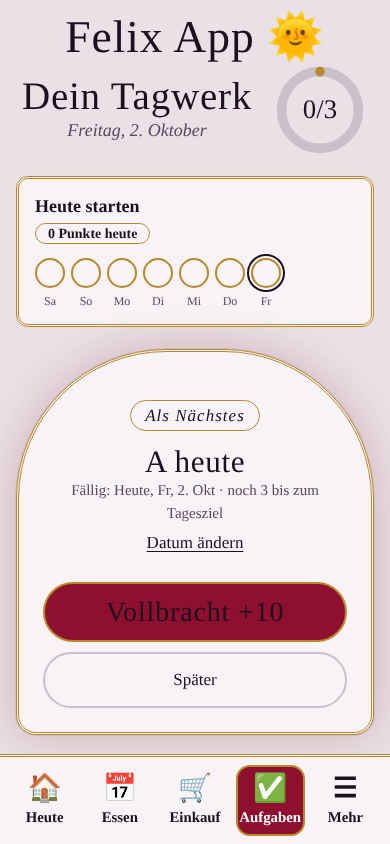
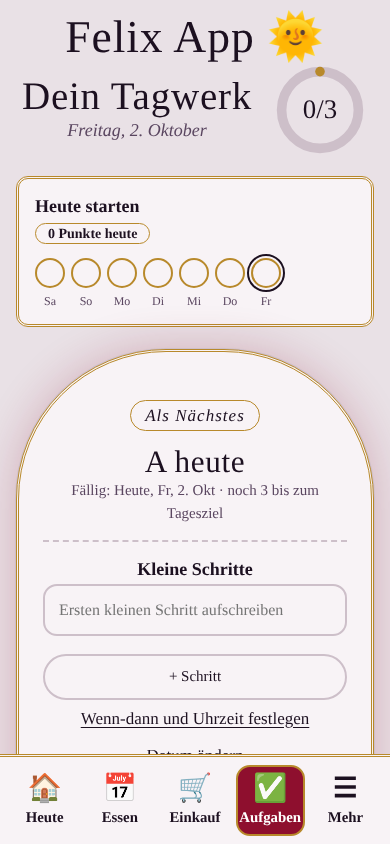
Aufgaben: kleine Schritte, Wenn-dann, Uhrzeit (2.3.0)
Claude-Session: https://claude.ai/code/session_01JKnLbAw27fNPQk2xqHruVg

Changed region(s): [[0.0308, 0.6161, 0.9846, 0.8934], [0.8615, 0.8009, 0.8923, 0.8318], [0.1231, 0.8009, 0.1538, 0.8318]]

diff --git a/index.html b/index.html
@@ -5,7 +5,7 @@
 <script>try{var _v=localStorage.getItem("aufgabenStil");if(["reward","punk","rock","gothic"].indexOf(_v)>=0)document.documentElement.dataset.v=_v}catch(e){}</script>
 <meta name="viewport" content="width=device-width, initial-scale=1">
 <title>Felix App</title>
-<meta name="version" content="2.2.1">
+<meta name="version" content="2.3.0">
 <meta name="application-name" content="Felix App">
 <meta name="apple-mobile-web-app-title" content="Felix App">
 <link rel="preconnect" href="https://fonts.googleapis.com">
@@ -576,6 +576,23 @@ input[type=checkbox]:checked::after{font-size:18px}
 :root[data-v="rock"] .day-h{font-size:1.4rem}
 :root[data-v="gothic"] .cal-d{border:1px solid var(--spot);border-radius:14px}
 :root[data-v="gothic"] .day-h{font-size:1.4rem;text-align:center;font-weight:400}
+
+/* Mini-Schritte, Wenn-dann, Uhrzeit */
+.tk-wd,.tk-time{margin:10px 0 0;font-weight:700}
+.tk-steps{margin-top:16px;padding-top:14px;border-top:2px dashed var(--line)}
+.tk-st-h{margin:0 0 6px;font-weight:800;font-size:.95rem}
+.tk-st{list-style:none;padding:0;margin:6px 0 10px}
+.tk-st li{display:flex;align-items:center;gap:12px;padding:6px 0}
+.tk-st li span{flex:1;min-width:0;overflow-wrap:anywhere}
+.tk-st li span.is-done{text-decoration:line-through;color:var(--muted)}
+.tk-stform{display:flex;gap:8px;flex-wrap:wrap}
+.tk-stform .field{flex:1 1 180px;font-size:16px}
+.tk-edit{margin-top:14px;padding-top:12px;border-top:2px dashed var(--line)}
+.tk-edit .field{font-size:16px;min-height:46px}
+.tk-edit-b{display:flex;align-items:center;gap:12px;margin-top:12px;flex-wrap:wrap}
+.tk-opt{margin-top:10px}
+.tk-opt summary{cursor:pointer;min-height:44px;display:flex;align-items:center;font-weight:700;color:var(--muted)}
+.tk-opt .field{font-size:16px;min-height:46px}
 @media print{nav,.days,.bar button,.meal a{display:none}section{display:block!important}body{background:#fff;color:#000}.meal,details.recipe{transform:none!important;break-inside:avoid}}
 </style>
 </head>
@@ -696,7 +713,7 @@ input[type=checkbox]:checked::after{font-size:18px}
     </div>
   </section>
 </main>
-<footer class="ver">Felix App, Version 2.2.1 vom 2.10.2026</footer>
+<footer class="ver">Felix App, Version 2.3.0 vom 2.10.2026</footer>
 <div id="tk-toast" role="status" aria-live="polite" hidden></div>
 <script>
 
@@ -1959,12 +1976,14 @@ function dueClass(t){
 }
 
 /* ---------- Zustand ---------- */
-const state={variant:'reward',tasks:[],loading:false,showDone:false,editDate:null,skipOrder:[],pinned:null,more:false,praise:null,praiseN:0,burst:0,calDay:null};
+const state={variant:'reward',tasks:[],loading:false,showDone:false,editDate:null,skipOrder:[],pinned:null,more:false,praise:null,praiseN:0,burst:0,calDay:null,editPlan:null};
 const find=id=>state.tasks.find(t=>t.id===id);
 function norm(id,d){
   if(!d||typeof d!=='object')return null;
   const due=typeof d.due==='string'&&/^\d{4}-\d{2}-\d{2}$/.test(d.due)?d.due:null;
-  return {id:String(id),title:String(d.title||'').slice(0,200),due:due,done:!!d.done,doneAt:+d.doneAt||0,createdAt:+d.createdAt||0,triaged:!!d.triaged};
+  const steps=Array.isArray(d.steps)?d.steps.slice(0,12).map((s,i)=>({id:String((s&&s.id)||('s'+i)),t:String((s&&s.t)||'').slice(0,100),done:!!(s&&s.done)})).filter(s=>s.t):[];
+  const time=typeof d.time==='string'&&/^\d{2}:\d{2}$/.test(d.time)&&due?d.time:'';
+  return {id:String(id),title:String(d.title||'').slice(0,200),due:due,time:time,wenn:String(d.wenn||'').slice(0,100),steps:steps,done:!!d.done,doneAt:+d.doneAt||0,createdAt:+d.createdAt||0,triaged:!!d.triaged};
 }
 function saveLocal(){lsSet(LS_T,JSON.stringify(state.tasks))}
 function add(task){
@@ -1978,7 +1997,7 @@ function restore(t){state.tasks.push(t);saveLocal();renderContent()}
 function groups(){
   const today=todayISO();
   const open=state.tasks.filter(t=>!t.done);
-  const byDue=(a,b)=>(a.due||'9999').localeCompare(b.due||'9999')||(a.createdAt||0)-(b.createdAt||0);
+  const byDue=(a,b)=>(a.due||'9999').localeCompare(b.due||'9999')||(a.time||'99:99').localeCompare(b.time||'99:99')||(a.createdAt||0)-(b.createdAt||0);
   return {
     open:open,
     overdue:open.filter(t=>t.due&&t.due<today).sort(byDue),
@@ -2003,16 +2022,25 @@ function focusQueue(){
 const CHECK='<svg viewBox="0 0 12 12" fill="none" stroke-width="2" stroke-linecap="round" stroke-linejoin="round"><path d="M2.5 6.2l2.4 2.4 4.6-5"/></svg>';
 const XICON='<svg viewBox="0 0 16 16" width="14" height="14" fill="none" stroke="currentColor" stroke-width="1.6" stroke-linecap="round"><path d="M4 4l8 8M12 4l-8 8"/></svg>';
 const chk=t=>'<button type="button" class="chk" role="checkbox" aria-checked="'+(t.done?'true':'false')+'" aria-label="Erledigt: '+esc(t.title)+'" data-act="toggle" data-id="'+esc(t.id)+'">'+CHECK+'</button>';
+function leftText(t){
+  if(!t.time||!t.due)return '';
+  const p=ymd(t.due),hm=t.time.split(':').map(Number),ts=new Date(p[0],p[1],p[2],hm[0],hm[1]).getTime(),diff=ts-Date.now();
+  const m=Math.round(Math.abs(diff)/60000),hh=Math.floor(m/60),r=m%60,d=Math.floor(hh/24);
+  const s=d>=1?d+(d===1?' Tag ':' Tage ')+(hh%24)+' Std':hh>=1?hh+' Std '+r+' Min':r+' Min';
+  return diff>0?'noch '+s:'seit '+s+' überfällig';
+}
 function dueHTML(t){
-  if(state.editDate===t.id)return '<span class="date-edit"><input type="date" class="d-in" data-id="'+esc(t.id)+'" value="'+esc(t.due||'')+'" aria-label="Neues Datum">'
+  if(state.editDate===t.id)return '<span class="date-edit"><input type="date" class="d-in" data-id="'+esc(t.id)+'" value="'+esc(t.due||'')+'" aria-label="Neues Datum">'+(t.due?'<input type="time" class="d-in t-in" data-id="'+esc(t.id)+'" value="'+esc(t.time||'')+'" aria-label="Uhrzeit">':'')
     +'<button type="button" class="link" data-act="nodate" data-id="'+esc(t.id)+'">Ohne Datum</button>'
     +'<button type="button" class="link" data-act="canceldate">Abbrechen</button></span>';
-  if(t.due)return '<button type="button" class="due '+dueClass(t)+'" data-act="date" data-id="'+esc(t.id)+'" aria-label="Datum ändern, aktuell '+esc(label(t.due))+'">'+esc(label(t.due))+'</button>';
+  if(t.due)return '<button type="button" class="due '+dueClass(t)+'" data-act="date" data-id="'+esc(t.id)+'" aria-label="Datum ändern, aktuell '+esc(label(t.due))+'">'+esc(label(t.due)+(t.time?', '+t.time+' Uhr':''))+'</button>';
   if(!t.done)return '<button type="button" class="due none" data-act="date" data-id="'+esc(t.id)+'" aria-label="Datum setzen">Datum</button>';
   return '';
 }
 function item(t,mv){
-  const meta=dueHTML(t)
+  const ns=t.steps.length,nd=t.steps.filter(s=>s.done).length;
+  const meta=dueHTML(t)+(ns?'<span class="tag">'+nd+'/'+ns+' Schritte</span>':'')+(t.wenn&&!t.done?'<span class="tag">Wenn '+esc(t.wenn)+'</span>':'')
+    +(!t.done?'<button type="button" class="link" data-act="pin" data-id="'+esc(t.id)+'">Details</button>':'')
     +(mv&&!t.done?'<button type="button" class="mv" data-act="moveto" data-id="'+esc(t.id)+'" data-days="'+(mv==='tomorrow'?1:0)+'">'+(mv==='tomorrow'?'Auf morgen':'Auf heute')+'</button>':'');
   return '<li class="task big'+(t.done?' is-done':'')+'">'+chk(t)
     +'<div class="t-main"><span class="t-title">'+esc(t.title)+'</span>'+(meta?'<span class="t-meta">'+meta+'</span>':'')+'</div>'
@@ -2062,6 +2090,8 @@ function chromeReward(){
    +'<button type="submit" class="btn-solid">Hinzufügen</button></div>'
    +'<div class="chips" role="group" aria-label="Wann?">'+chip(0,'Heute')+chip(1,'Morgen')+chip(7,'In 1 Woche')+chip('none','Irgendwann')+'</div>'
    +'<label class="fk-date" for="f-due">Anderes Datum <input id="f-due" type="date" class="field date"></label>'
+   +'<details class="tk-opt"><summary>Uhrzeit und Wenn-dann (optional)</summary><label class="fk-date" for="f-time">Uhrzeit <input id="f-time" type="time" class="field date"></label>'
+   +'<label class="fk-date" for="f-wenn">Wenn … <input id="f-wenn" type="text" class="field" maxlength="100" placeholder="z. B. nach dem Frühstück"></label></details>'
    +'<p class="cal-hint" id="f-hint" aria-live="polite"></p></form></div>';
 }
 function goalHTML(v,dt,GOAL){
@@ -2070,6 +2100,20 @@ function goalHTML(v,dt,GOAL){
   if(v==='rock'){let b='';for(let i=0;i<GOAL;i++)b+='<span class="rk-bar'+(i<n?' on':'')+'" style="height:'+(45+i*27)+'%"></span>';return '<div class="rw-goal" role="img" aria-label="'+aria+'"><div class="rk-meter">'+b+'</div><span class="rw-goal-t">'+n+'/'+GOAL+' heute</span></div>'}
   const C=2*Math.PI*40,pct=n/GOAL;
   return '<svg class="rw-ring" viewBox="0 0 100 100" role="img" aria-label="'+aria+'"><circle class="track" cx="50" cy="50" r="40"/><circle class="prog" cx="50" cy="50" r="40" transform="rotate(-90 50 50)" stroke-dasharray="'+(pct*C).toFixed(1)+' '+C.toFixed(1)+'"/><text x="50" y="58">'+n+'/'+GOAL+'</text></svg>';
+}
+function heroExtra(h){
+  const id=esc(h.id),ns=h.steps.length,nd=h.steps.filter(s=>s.done).length;
+  let o='';
+  if(h.wenn)o+='<p class="tk-wd"><b>Wenn</b> '+esc(h.wenn)+', <b>dann</b> '+esc(h.title)+'</p>';
+  if(h.time&&h.due)o+='<p class="tk-time">Um '+esc(h.time)+' Uhr · <span data-left="'+id+'">'+esc(leftText(h))+'</span></p>';
+  o+='<div class="tk-steps"><p class="tk-st-h">Kleine Schritte'+(ns?' · '+nd+' von '+ns+' geschafft':'')+'</p>';
+  if(ns)o+='<ul class="tk-st">'+h.steps.map(s=>'<li><button type="button" class="chk" role="checkbox" aria-checked="'+(s.done?'true':'false')+'" aria-label="Schritt erledigt: '+esc(s.t)+'" data-act="stepdone" data-id="'+id+'" data-sid="'+esc(s.id)+'">'+CHECK+'</button><span class="'+(s.done?'is-done':'')+'">'+esc(s.t)+'</span><button type="button" class="del" data-act="stepdel" data-id="'+id+'" data-sid="'+esc(s.id)+'" aria-label="Schritt löschen: '+esc(s.t)+'">'+XICON+'</button></li>').join('')+'</ul>';
+  o+='<form class="tk-stform" id="stform" data-id="'+id+'" autocomplete="off"><input class="field" id="f-step" type="text" maxlength="100" placeholder="'+(ns?'Noch ein kleiner Schritt':'Ersten kleinen Schritt aufschreiben')+'" aria-label="Neuer Schritt"><button type="submit" class="btn-ghost sm">+ Schritt</button></form></div>';
+  if(state.editPlan===h.id)o+='<div class="tk-edit"><label class="fk-date" for="e-wenn">Wenn … <input id="e-wenn" type="text" class="field" maxlength="100" value="'+esc(h.wenn)+'" placeholder="z. B. nach dem Frühstück"></label>'
+    +(h.due?'<label class="fk-date" for="e-time">Uhrzeit <input id="e-time" type="time" class="field date" value="'+esc(h.time)+'"></label>':'<p class="fk-meta">Für eine Uhrzeit braucht die Aufgabe einen Tag.</p>')
+    +'<div class="tk-edit-b"><button type="button" class="btn-solid" data-act="saveplan" data-id="'+id+'">Speichern</button><button type="button" class="link" data-act="cancelplan">Abbrechen</button></div></div>';
+  else o+='<button type="button" class="link" data-act="editplan" data-id="'+id+'">'+(h.wenn||h.time?'Wenn-dann und Uhrzeit ändern':'Wenn-dann und Uhrzeit festlegen')+'</button>';
+  return o;
 }
 function calStrip(){
   const t=todayISO();
@@ -2106,7 +2150,7 @@ function fillReward(){
   if(state.burst&&Date.now()-state.burst<1500)hero+=confetti();
   if(state.loading)hero+='<div class="rw-card"><p class="fk-meta">Aufgaben werden geladen …</p></div>';
   else if(h){
-    hero+='<div class="rw-card"><span class="fk-kicker">'+S.kicker+'</span><h2 class="fk-task">'+esc(h.title)+'</h2><p class="fk-meta">'+esc(softLabel(h))+(dt>=GOAL?' · Tagesziel schon erreicht':' · noch '+(GOAL-dt)+' bis zum Tagesziel')+'</p>'+(state.editDate===h.id?dueHTML(h):'<button type="button" class="link" data-act="date" data-id="'+esc(h.id)+'">Datum ändern</button>')
+    hero+='<div class="rw-card"><span class="fk-kicker">'+S.kicker+'</span><h2 class="fk-task">'+esc(h.title)+'</h2><p class="fk-meta">'+esc(softLabel(h))+(dt>=GOAL?' · Tagesziel schon erreicht':' · noch '+(GOAL-dt)+' bis zum Tagesziel')+'</p>'+heroExtra(h)+(state.editDate===h.id?dueHTML(h):'<button type="button" class="link" data-act="date" data-id="'+esc(h.id)+'">Datum ändern</button>')
       +'<button type="button" class="rw-go" data-act="toggle" data-id="'+esc(h.id)+'">'+S.go+'</button>'
       +(q.length>1?'<button type="button" class="btn-ghost" data-act="skip" data-id="'+esc(h.id)+'">Später</button>':'')+'</div>';
   }else{
@@ -2167,30 +2211,50 @@ shell.addEventListener('click',e=>{
     case 'showdone':state.showDone=!state.showDone;renderContent();break;
     case 'skip':state.skipOrder=state.skipOrder.filter(x=>x!==id).concat(id);renderContent();break;
     case 'more':state.more=!state.more;renderContent();break;
+    case 'pin':if(t){state.pinned=id;state.editPlan=null;renderContent();const hw=$('#rw-hero');if(hw&&hw.scrollIntoView)hw.scrollIntoView({block:'start'})}break;
+    case 'editplan':state.editPlan=id;renderContent();{const w=$('#e-wenn');if(w)w.focus()}break;
+    case 'cancelplan':state.editPlan=null;renderContent();break;
+    case 'saveplan':if(t){const w=$('#e-wenn'),tm=$('#e-time');state.editPlan=null;patch(id,{wenn:(w?w.value:'').trim().slice(0,100),time:t.due&&tm?tm.value:''})}break;
+    case 'stepdone':if(t){const sid=b.dataset.sid,s=t.steps.find(x=>x.id===sid);if(!s)break;const now=!s.done;
+      patch(id,{steps:t.steps.map(x=>x.id===sid?Object.assign({},x,{done:now}):x)});
+      if(window.PTS){if(now)PTS.award('step:'+id+':'+sid,2,'Schritt geschafft');else PTS.revoke('step:'+id+':'+sid)}}break;
+    case 'stepdel':if(t){const sid=b.dataset.sid;patch(id,{steps:t.steps.filter(x=>x.id!==sid)});if(window.PTS)PTS.revoke('step:'+id+':'+sid)}break;
     case 'calday':{state.calDay=b.dataset.day||null;const f=$('#f-due');if(f&&state.calDay)f.value=state.calDay;syncChips();renderContent();break}
   }
 });
 shell.addEventListener('change',e=>{
   const i=e.target.closest('.d-in');
+  if(i&&i.classList.contains('t-in')){state.editDate=null;patch(i.dataset.id,{time:i.value||''});return}
   if(i){state.editDate=null;patch(i.dataset.id,{due:i.value||null,triaged:true});}
 });
 shell.addEventListener('input',e=>{if(e.target.id==='f-due')syncChips()});
 shell.addEventListener('submit',e=>{
+  if(e.target.id==='stform'){
+    e.preventDefault();
+    const inp=$('#f-step'),txt=inp.value.trim(),tid=e.target.dataset.id,t=find(tid);
+    if(!txt||!t){inp.focus();return}
+    patch(tid,{steps:t.steps.concat([{id:'s'+Date.now().toString(36)+Math.random().toString(36).slice(2,5),t:txt.slice(0,100),done:false}]).slice(0,12)});
+    const n=$('#f-step');if(n)n.focus();
+    return;
+  }
   if(e.target.id!=='add')return;
   e.preventDefault();
   const ti=$('#f-title'),du=$('#f-due'),title=ti.value.trim();
   if(!title){ti.focus();return}
-  add({title:title.slice(0,140),due:(du&&du.value)||null,done:false,doneAt:0,createdAt:Date.now(),triaged:true});
+  const tm=$('#f-time'),wn=$('#f-wenn'),dueV=(du&&du.value)||null;
+  add({title:title.slice(0,140),due:dueV,time:(dueV&&tm&&tm.value)||'',wenn:(wn?wn.value.trim():'').slice(0,100),steps:[],done:false,doneAt:0,createdAt:Date.now(),triaged:true});
+  if(tm)tm.value='';if(wn)wn.value='';
   ti.value='';if(du)du.value=state.calDay||todayISO();syncChips();ti.focus();
 });
 document.addEventListener('keydown',e=>{if(e.key==='Escape'&&state.editDate){state.editDate=null;renderContent()}});
 
 document.addEventListener('click',e=>{const sv=e.target.closest('[data-variant]');if(sv)setStyle(sv.dataset.variant)});
+setInterval(()=>{document.querySelectorAll('[data-left]').forEach(el=>{const t=find(el.dataset.left);if(t)el.textContent=leftText(t)})},30000);
 window.TK={
   toast:toast,
   doneAt:()=>state.tasks.filter(t=>t.done&&t.doneAt).map(t=>t.doneAt),
   refresh:()=>renderContent(),
-  hero:()=>{const q=focusQueue();return q[0]?{id:q[0].id,title:q[0].title,when:softLabel(q[0])}:null},
+  hero:()=>{const q=focusQueue(),t=q[0];return t?{id:t.id,title:t.title,when:softLabel(t),wenn:t.wenn,time:t.due&&t.time?t.time:'',left:leftText(t),ns:t.steps.length,nd:t.steps.filter(s=>s.done).length}:null},
   summary:()=>({done:doneTodayCount(),goal:3,streak:streakInfo().n,any:state.tasks.length>0}),
   toggle:id=>{const t=find(id);if(!t)return;const nowDone=!t.done;if(nowDone)praise(id);
     state.skipOrder=state.skipOrder.filter(x=>x!==id);if(state.pinned===id)state.pinned=null;
@@ -2296,7 +2360,7 @@ function renderToday(){
   const lv=PTS.level();
   html+=`<div class="td-card"><h2>${PTS.today()} Punkte heute</h2><div class="tk-prog" style="margin:0 0 8px" role="progressbar" aria-label="Weg zum nächsten Level" aria-valuenow="${lv.into}" aria-valuemin="0" aria-valuemax="100"><i style="width:${lv.into}%"></i></div><p class="note" style="margin:0">Level ${lv.n} · noch ${100-lv.into} Punkte bis Level ${lv.n+1}</p></div>`;
   html+=hero
-   ?`<div class="rw-card"><span class="fk-kicker">Nächster Schritt</span><h2 class="fk-task">${escE(hero.title)}</h2><p class="fk-meta">${escE(hero.when)}</p><button type="button" class="rw-go" data-tkdone="${escE(hero.id)}">Geschafft! +10</button><button type="button" class="btn-ghost" data-tabgo="tasks">Alle Aufgaben</button></div>`
+   ?`<div class="rw-card"><span class="fk-kicker">Nächster Schritt</span><h2 class="fk-task">${escE(hero.title)}</h2><p class="fk-meta">${escE(hero.when)}</p>${hero.wenn?`<p class="tk-wd"><b>Wenn</b> ${escE(hero.wenn)}, <b>dann</b> ${escE(hero.title)}</p>`:""}${hero.time?`<p class="tk-time">Um ${hero.time} Uhr · ${escE(hero.left)}</p>`:""}${hero.ns?`<p class="fk-meta">${hero.nd} von ${hero.ns} kleinen Schritten geschafft</p>`:""}<button type="button" class="rw-go" data-tkdone="${escE(hero.id)}">Geschafft! +10</button><button type="button" class="btn-ghost" data-tabgo="tasks">Alle Aufgaben</button></div>`
    :`<div class="rw-card"><span class="fk-kicker">${s.any?"Alles erledigt":"Los geht’s"}</span><h2 class="fk-task">${s.any?"Starker Tag. Gönn dir eine Pause.":"Noch keine Aufgabe."}</h2><p class="fk-meta">${s.any?"Deine Serie bleibt bestehen.":"Schreib die erste Aufgabe auf, ganz klein genügt."}</p><button type="button" class="btn-ghost" data-tabgo="tasks">Zu den Aufgaben</button></div>`;
   const dayPlan=PLAN[dn];
   html+=`<div class="td-card"><h2>Heute essen</h2>`+(dayPlan

diff --git a/CHANGELOG.md b/CHANGELOG.md
@@ -3,6 +3,15 @@
 Jede Änderung bekommt eine neue Versionsnummer. Die Version steht unten in der App.
 Schema: Hauptversion.Neue Funktion.Korrektur (zum Beispiel 1.1.0 für eine neue Funktion, 1.0.1 für eine Korrektur).
 
+## 2.3.0 vom 2.10.2026
+Aufgaben: kleine Schritte, Wenn-dann und Uhrzeit (nach Studien zu ADHS und Planung).
+- Kleine Schritte: Jede Aufgabe lässt sich in bis zu 12 Schritte teilen. Jeder erledigte Schritt bringt 2 Punkte, die ganze Aufgabe weiterhin 10. Ein zurückgenommener oder gelöschter Schritt nimmt seine Punkte wieder weg.
+- Wenn-dann: Zu jeder Aufgabe kann ein Auslöser stehen, zum Beispiel "Wenn nach dem Frühstück, dann Zahnarzt anrufen".
+- Uhrzeit: Aufgaben mit Tag können eine Uhrzeit haben. Die Karte zeigt, wie lange es noch dauert oder wie lange die Aufgabe schon überfällig ist, und aktualisiert sich alle 30 Sekunden. Innerhalb eines Tages sortiert die Liste nach Uhrzeit.
+- "Details" an jeder Aufgabe holt sie nach oben auf die große Karte, dort lassen sich Schritte, Wenn-dann und Uhrzeit ändern.
+- Auf der Startseite Heute stehen Wenn-dann, Uhrzeit und der Stand der Schritte.
+- Hinweis: Erinnerungen bei geschlossener App kann eine Web-App nicht zuverlässig schicken. Die Uhrzeit erinnert nur, solange die App offen ist.
+
 ## 2.2.1 vom 2.10.2026
 Gegessen abhaken nimmt die Zutaten von der Einkaufsliste.
 - Hakst du ein Essen auf Heute oder im Plan als "Gegessen" an, verschwinden die Zutaten dieses Gerichts aus der Einkaufsliste. Das Gericht steht dann unter "Gerichte der Woche" ohne Haken.
